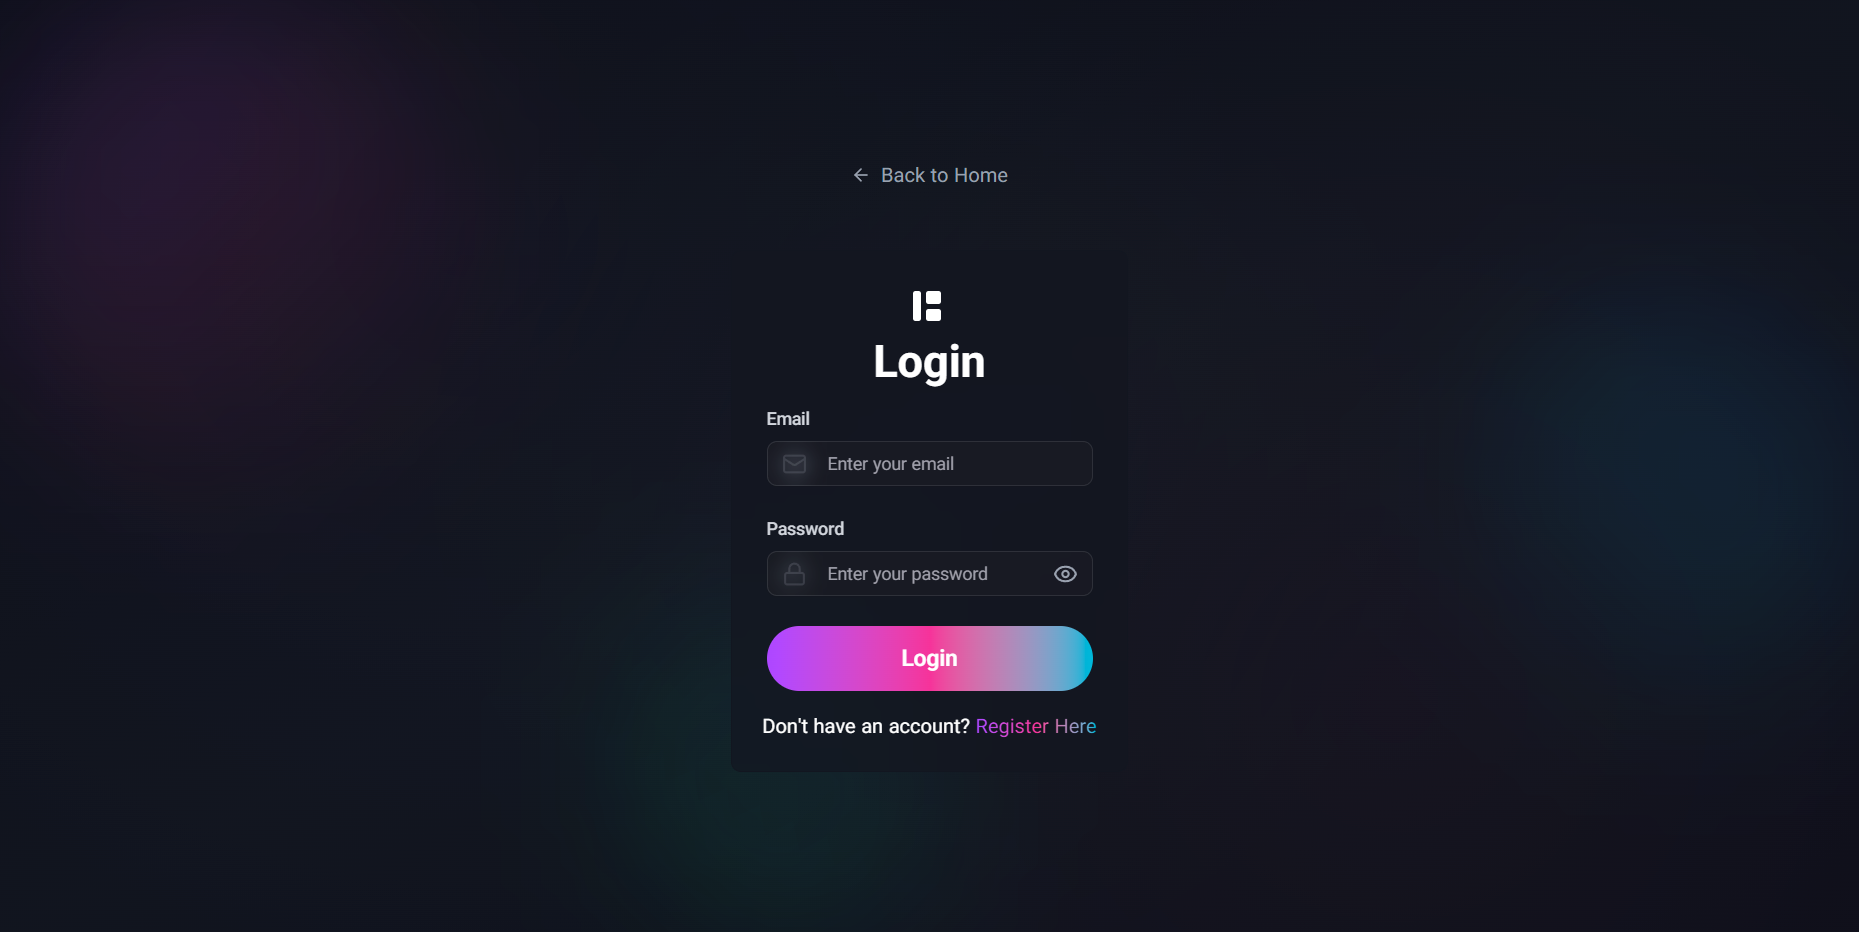
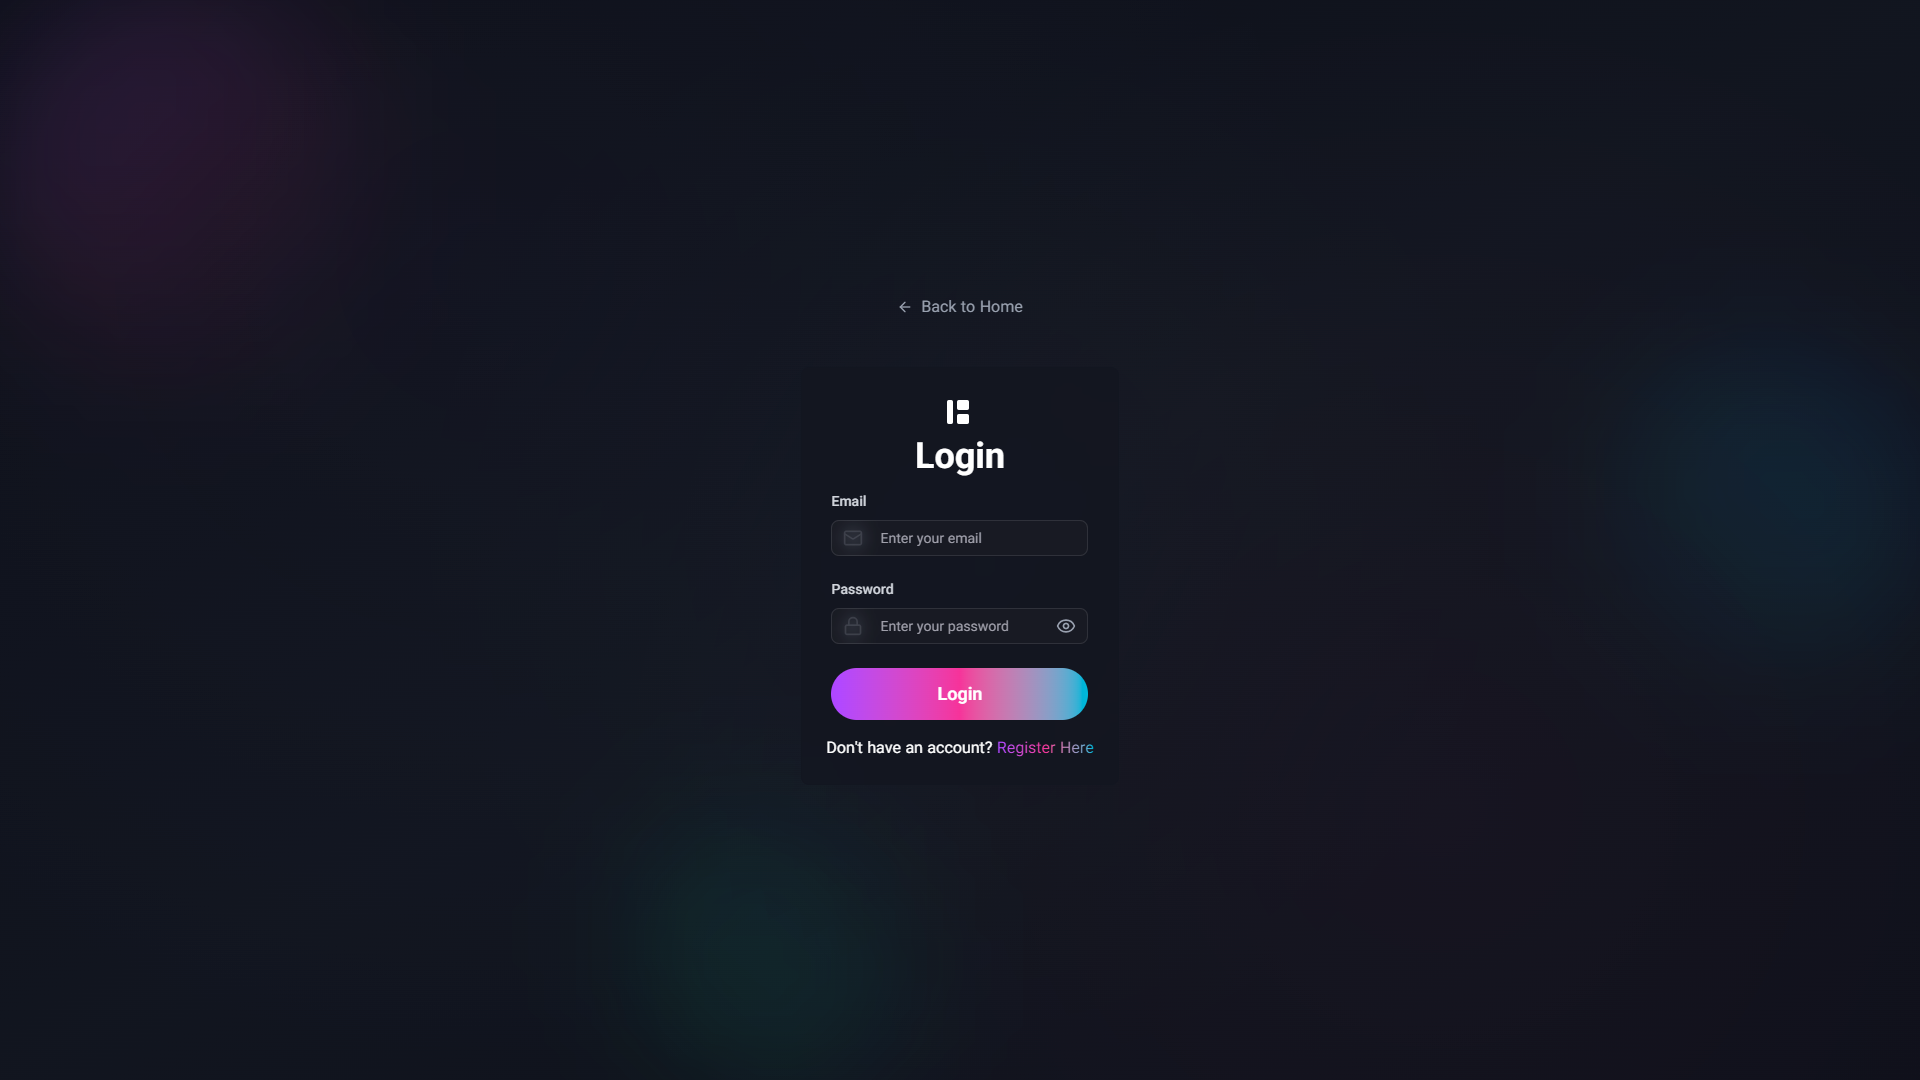
commit

diff --git a/scripts/generate-og-screenshots.ts b/scripts/generate-og-screenshots.ts
@@ -1,0 +1,100 @@
+import puppeteer from "puppeteer";
+import path from "path";
+import fs from "fs";
+import { fileURLToPath } from "url";
+
+const __filename = fileURLToPath(import.meta.url);
+const __dirname = path.dirname(__filename);
+const PUBLIC_OG_DIR = path.join(__dirname, "../public/og");
+const PUBLIC_SCREENSHOTS_DIR = path.join(__dirname, "../public/screenshots");
+
+const BASE_URL = "https://mhd-store.vercel.app";
+
+const PAGES = [
+  { path: "/", name: "home-desktop", type: "desktop" },
+  { path: "/login", name: "login", type: "desktop" },
+  { path: "/register", name: "register", type: "desktop" },
+  { path: "/custom-development", name: "custom-development", type: "desktop" },
+  { path: "/faqs", name: "faqs", type: "desktop" },
+  { path: "/support", name: "support", type: "desktop" },
+  { path: "/pricing", name: "pricing", type: "desktop" },
+];
+
+async function generateScreenshots() {
+  // Ensure directories exist
+  if (!fs.existsSync(PUBLIC_OG_DIR)) {
+    fs.mkdirSync(PUBLIC_OG_DIR, { recursive: true });
+  }
+  if (!fs.existsSync(PUBLIC_SCREENSHOTS_DIR)) {
+    fs.mkdirSync(PUBLIC_SCREENSHOTS_DIR, { recursive: true });
+  }
+
+  console.log("Launching browser...");
+  const browser = await puppeteer.launch({
+    headless: true,
+    executablePath:
+      "C:\\Program Files\\Google\\Chrome\\Application\\chrome.exe",
+  });
+
+  const page = await browser.newPage();
+
+  for (const pageConfig of PAGES) {
+    console.log(`\nNavigating to ${BASE_URL}${pageConfig.path}...`);
+    await page.goto(`${BASE_URL}${pageConfig.path}`, {
+      waitUntil: "networkidle0",
+    });
+
+    // Wait for animations
+    await new Promise((resolve) => setTimeout(resolve, 2000));
+
+    // 1. Generate OG Screenshot (1920x1008 maintains 1.9:1 ratio but gives a wider desktop layout)
+    console.log(`Capturing OG screenshot: ${pageConfig.name}.png...`);
+    await page.setViewport({ width: 1920, height: 1008, deviceScaleFactor: 1 });
+    await new Promise((resolve) => setTimeout(resolve, 500));
+    await page.screenshot({
+      path: path.join(PUBLIC_OG_DIR, `${pageConfig.name}.png`),
+      type: "png",
+      clip: { x: 0, y: 0, width: 1920, height: 1008 },
+    });
+
+    // 2. Generate Manifest Screenshot (1920x1080)
+    console.log(
+      `Capturing Manifest Desktop screenshot: ${pageConfig.name}.png...`,
+    );
+    await page.setViewport({ width: 1920, height: 1080, deviceScaleFactor: 1 });
+    await new Promise((resolve) => setTimeout(resolve, 500));
+    await page.screenshot({
+      path: path.join(PUBLIC_SCREENSHOTS_DIR, `${pageConfig.name}.png`),
+      type: "png",
+      clip: { x: 0, y: 0, width: 1920, height: 1080 },
+    });
+
+    // 3. Generate Mobile Manifest Screenshot for home only
+    if (pageConfig.path === "/") {
+      console.log(`Capturing Manifest Mobile screenshot: home-mobile.png...`);
+      // To get a 1080x2340 output that triggers mobile media queries,
+      // we use a 360x780 CSS viewport with a 3x scale factor.
+      await page.setViewport({
+        width: 360,
+        height: 780,
+        deviceScaleFactor: 3,
+        isMobile: true,
+        hasTouch: true,
+      });
+      await new Promise((resolve) => setTimeout(resolve, 500));
+      await page.screenshot({
+        path: path.join(PUBLIC_SCREENSHOTS_DIR, `home-mobile.png`),
+        type: "png",
+        clip: { x: 0, y: 0, width: 360, height: 780 },
+      });
+    }
+  }
+
+  await browser.close();
+  console.log("\nScreenshots generated successfully!");
+}
+
+generateScreenshots().catch((err) => {
+  console.error("Error generating screenshots:", err);
+  process.exit(1);
+});

diff --git a/app/(app)/(main)/page.tsx b/app/(app)/(main)/page.tsx
@@ -8,12 +8,14 @@ import GSAPInitializer from "@/components/home/GSAPInitializer";
 // import CustomBuildBand from "@/components/home/CustomBuildBand";
 // import BlueprintCustomBuild from "@/components/home/BlueprintCustomBuild";
 import { Metadata } from "next";
+import { buildMetadata } from "@/lib/seo";
 
-export const metadata: Metadata = {
+export const metadata: Metadata = buildMetadata({
   title: "MHD Store | Premium Web Templates",
-  description:
-    "Premium, responsive Next.js and Tailwind CSS templates for modern creators and businesses.",
-};
+  description: "Premium, responsive Next.js and Tailwind CSS templates for modern creators and businesses.",
+  path: "/",
+  screenshotName: "home-desktop"
+});
 
 // const FramerFeatures = dynamic(
 //   () => import("@/components/home/FramerFeatures"),

diff --git a/app/(app)/(main)/custom-development/page.tsx b/app/(app)/(main)/custom-development/page.tsx
@@ -1,4 +1,3 @@
-import React from "react";
 import Hero from "@/components/CustomDevelopment/Hero";
 import ValueProposition from "@/components/CustomDevelopment/ValueProposition";
 import ProcessTimeline from "@/components/CustomDevelopment/ProcessTimeline";
@@ -6,10 +5,14 @@ import TechStack from "@/components/CustomDevelopment/TechStack";
 import ApplicationForm from "@/components/CustomDevelopment/ApplicationForm";
 import GSAPInitializer from "@/components/home/GSAPInitializer";
 
-export const metadata = {
+import { buildMetadata } from "@/lib/seo";
+
+export const metadata = buildMetadata({
   title: "Custom Development | MHD Store",
   description: "Get a custom, premium web application built specifically for your brand.",
-};
+  path: "/custom-development",
+  screenshotName: "custom-development"
+});
 
 const CustomDevelopmentPage = () => {
   return (

diff --git a/lib/seo.ts b/lib/seo.ts
@@ -17,8 +17,8 @@ export function buildMetadata({
   const canonicalUrl = `https://mhd-store.vercel.app${cleanPath}`;
 
   const ogImage = screenshotName 
-    ? `/screenshots/${screenshotName}.png` 
-    : "/screenshots/1.png";
+    ? `/og/${screenshotName}.png` 
+    : "/og/home-desktop.png";
 
   const imageUrl = `https://mhd-store.vercel.app${ogImage}`;
 

diff --git a/app/(app)/(main)/faqs/page.tsx b/app/(app)/(main)/faqs/page.tsx
@@ -6,6 +6,7 @@ export const metadata = buildMetadata({
   title: "Frequently Asked Questions | Premium Templates",
   description: "Find answers to common questions about our premium templates, pricing, licensing, and support. Get help with your template purchases and downloads.",
   path: "/faqs",
+  screenshotName: "faqs"
 });
 
 export default async function FAQsPage() {

diff --git a/app/(app)/(main)/pricing/page.tsx b/app/(app)/(main)/pricing/page.tsx
@@ -5,6 +5,7 @@ export const metadata = buildMetadata({
   title: "Pricing | MHD Store",
   description: "View pricing plans for premium web templates at MHD Store.",
   path: "/pricing",
+  screenshotName: "pricing"
 });
 
 const Page = () => {

diff --git a/app/(app)/(main)/support/page.tsx b/app/(app)/(main)/support/page.tsx
@@ -11,6 +11,7 @@ export const metadata = buildMetadata({
     title: "Contact Support | Premium Templates",
     description: "Get help with your orders, account, or any questions. Our support team is here to assist you.",
     path: "/support",
+    screenshotName: "support",
 });
 
 const supportFeatures = [